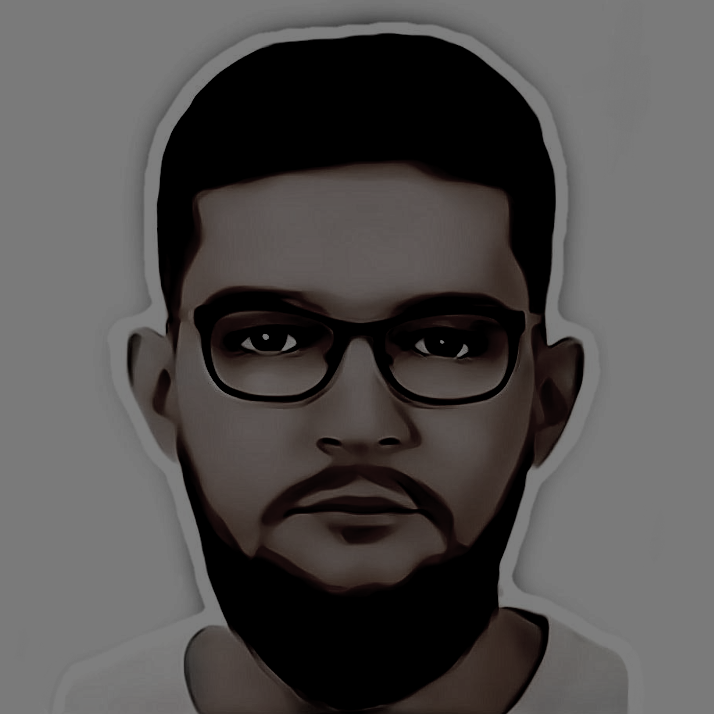
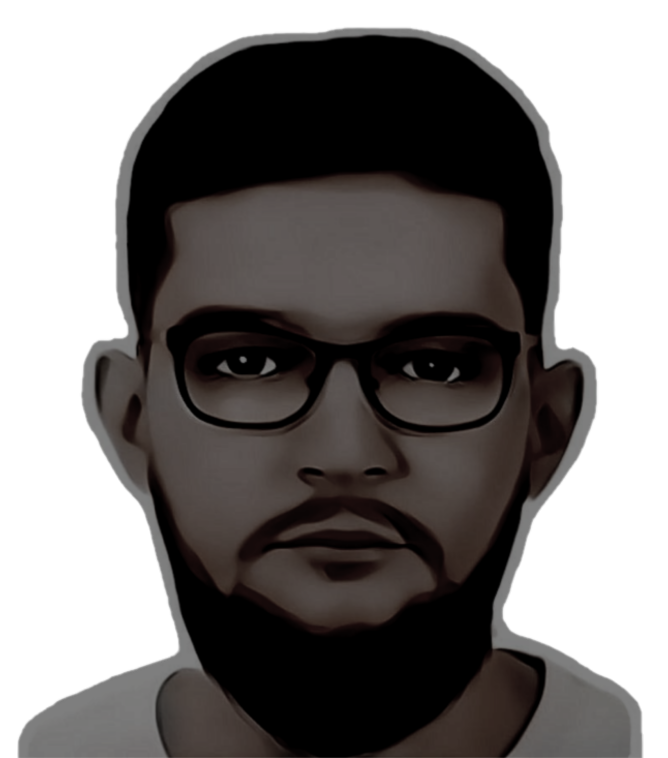
rwd for about section + some bg fix

diff --git a/src/assest/style/_about.scss b/src/assest/style/_about.scss
@@ -15,8 +15,14 @@
         flex-direction: column;
         padding: $pading;
         width: 100%;
+        margin: 20px 0;
 
         .about-me {
+
+            @media (max-width:#{$sm}) {
+                flex-direction: column;
+            }
+
             display: flex;
             align-items: center;
             justify-content: center;
@@ -47,26 +53,42 @@
                 }
             }
 
-            .right{
+            .right {
+                @media (max-width:#{$sm}) {
+                    margin-top: 30px;
+                }
+
                 display: flex;
                 align-items: center;
                 justify-content: center;
                 flex: 1;
+                opacity: 0;
+                animation: focus-in 1s ease-in-out 2s forwards;
 
-                .img{
-                    height: 100%;
+                .img {
+                    width: 100%;
 
-                    img{
+                    img {
+                        @media (max-width:#{$md}) {
+                            max-height: 200px;
+                        }
+
+                        max-height: 300px;
                         margin-left: auto;
                         margin-right: auto;
                         display: block;
-                        width: 80%;
+                        border-bottom: solid 5px $colorB;
+                        filter: drop-shadow(0px -10px 10px $colorB);
                     }
                 }
             }
         }
 
-        .skills{
+        .skills {
+            @media (max-width:#{$sm}) {
+                flex-direction: column-reverse;
+            }
+
             margin-top: 30px;
             display: flex;
             align-items: center;
@@ -82,14 +104,23 @@
                 justify-content: center;
                 flex: 1;
 
-                .logos{
+                .logos {
                     display: flex;
                     align-items: center;
                     justify-content: center;
                     flex-wrap: wrap;
                     gap: 10px;
 
-                    .img{
+                    .img {
+                        @media (max-width:#{$md}) {
+                            width: 30%;
+                        }
+
+                        @media (max-width:#{$sm}) {
+                            width: 21%;
+                        }
+
+
                         display: flex;
                         align-items: center;
                         justify-content: center;
@@ -98,7 +129,7 @@
                         opacity: 0;
                         animation: focus-in 1s ease-in-out forwards;
 
-                        img{
+                        img {
                             height: 80%;
                             object-fit: contain;
                         }
@@ -106,7 +137,7 @@
                 }
             }
 
-            .right{
+            .right {
                 display: flex;
                 flex: 1;
                 flex-direction: column;
@@ -128,18 +159,20 @@
                     font-size: $fluidFontSize;
                     opacity: 0;
                     animation: focus-in 1s ease-in-out 2.5s forwards;
+                    margin-bottom: 20px;
 
-                    .text{
+                    .text {
                         text-align: end;
                     }
 
-                    .list{
+                    .list {
                         font-weight: 600;
-                        ul{
+
+                        ul {
                             list-style-type: circle;
                             columns: 2;
 
-                            li{
+                            li {
                                 opacity: 0;
                                 margin-right: 20px;
                                 animation: focus-in 1s ease-in-out forwards;
@@ -209,6 +242,7 @@
     0% {
         transform: perspective(1000px) rotateY(0deg);
     }
+
     0% {
         transform: perspective(1000px) rotateY(360deg);
     }

diff --git a/src/assest/style/index.css b/src/assest/style/index.css
@@ -415,9 +415,9 @@
 
 .background {
   background-color: #CEFAFF;
-  position: relative;
+  position: fixed;
+  top: 0;
   min-height: 100vh;
-  height: 100%;
   width: 100%;
   overflow: hidden;
   z-index: -10;
@@ -736,6 +736,7 @@
           flex-direction: column;
   padding: 0 clamp(20px, 7vw, 200px);
   width: 100%;
+  margin: 20px 0;
 }
 
 .about .wrapper .about-me {
@@ -756,6 +757,15 @@
   background-color: rgba(206, 250, 255, 0.5);
   -webkit-animation: flip-in-bottom-left 2s ease-in-out forwards;
           animation: flip-in-bottom-left 2s ease-in-out forwards;
+}
+
+@media (max-width: 576px) {
+  .about .wrapper .about-me {
+    -webkit-box-orient: vertical;
+    -webkit-box-direction: normal;
+        -ms-flex-direction: column;
+            flex-direction: column;
+  }
 }
 
 .about .wrapper .about-me .left {
@@ -801,17 +811,35 @@
   -webkit-box-flex: 1;
       -ms-flex: 1;
           flex: 1;
+  opacity: 0;
+  -webkit-animation: focus-in 1s ease-in-out 2s forwards;
+          animation: focus-in 1s ease-in-out 2s forwards;
+}
+
+@media (max-width: 576px) {
+  .about .wrapper .about-me .right {
+    margin-top: 30px;
+  }
 }
 
 .about .wrapper .about-me .right .img {
-  height: 100%;
+  width: 100%;
 }
 
 .about .wrapper .about-me .right .img img {
+  max-height: 300px;
   margin-left: auto;
   margin-right: auto;
   display: block;
-  width: 80%;
+  border-bottom: solid 5px #67E2FF;
+  -webkit-filter: drop-shadow(0px -10px 10px #67E2FF);
+          filter: drop-shadow(0px -10px 10px #67E2FF);
+}
+
+@media (max-width: 768px) {
+  .about .wrapper .about-me .right .img img {
+    max-height: 200px;
+  }
 }
 
 .about .wrapper .skills {
@@ -833,6 +861,15 @@
   background-color: rgba(206, 250, 255, 0.5);
   -webkit-animation: flip-in-bottom-right 2s ease-in-out 1s forwards;
           animation: flip-in-bottom-right 2s ease-in-out 1s forwards;
+}
+
+@media (max-width: 576px) {
+  .about .wrapper .skills {
+    -webkit-box-orient: vertical;
+    -webkit-box-direction: reverse;
+        -ms-flex-direction: column-reverse;
+            flex-direction: column-reverse;
+  }
 }
 
 .about .wrapper .skills .left {
@@ -882,6 +919,18 @@
           animation: focus-in 1s ease-in-out forwards;
 }
 
+@media (max-width: 768px) {
+  .about .wrapper .skills .left .logos .img {
+    width: 30%;
+  }
+}
+
+@media (max-width: 576px) {
+  .about .wrapper .skills .left .logos .img {
+    width: 21%;
+  }
+}
+
 .about .wrapper .skills .left .logos .img img {
   height: 80%;
   -o-object-fit: contain;
@@ -929,6 +978,7 @@
   opacity: 0;
   -webkit-animation: focus-in 1s ease-in-out 2.5s forwards;
           animation: focus-in 1s ease-in-out 2.5s forwards;
+  margin-bottom: 20px;
 }
 
 .about .wrapper .skills .right .content .text {

diff --git a/src/pages/About.jsx b/src/pages/About.jsx
@@ -29,7 +29,7 @@ const About = () => {
 
         if (logos) {
             for (let i = 0; i < logos.length; i++) {
-                logos[i].style.animationDelay = 3 + (i * 0.2) + 's';
+                logos[i].style.animationDelay = 3.5 + (i * 0.2) + 's';
             }
         }
         else {
@@ -58,7 +58,7 @@ const About = () => {
                     </div>
                     <div className="right">
                         <div className="img">
-                            {/* <img src={avatar} alt="" /> */}
+                            <img src={avatar} alt="" />
                         </div>
                     </div>
                 </div>
@@ -78,7 +78,7 @@ const About = () => {
                         </div>
                         <div className="content">
                             <div className="text">
-                                Here are the technologies I have been working with
+                            Here are the technologies I have been working with
                             </div>
                             <div className="list">
                                 <ul>

diff --git a/src/assest/style/_background.scss b/src/assest/style/_background.scss
@@ -2,9 +2,9 @@
 
 .background{
     background-color: $colorC;
-    position: relative;
+    position: fixed;
+    top: 0;
     min-height: 100vh;
-    height: 100%;
     width: 100%;
     overflow: hidden;
     z-index: -10;
